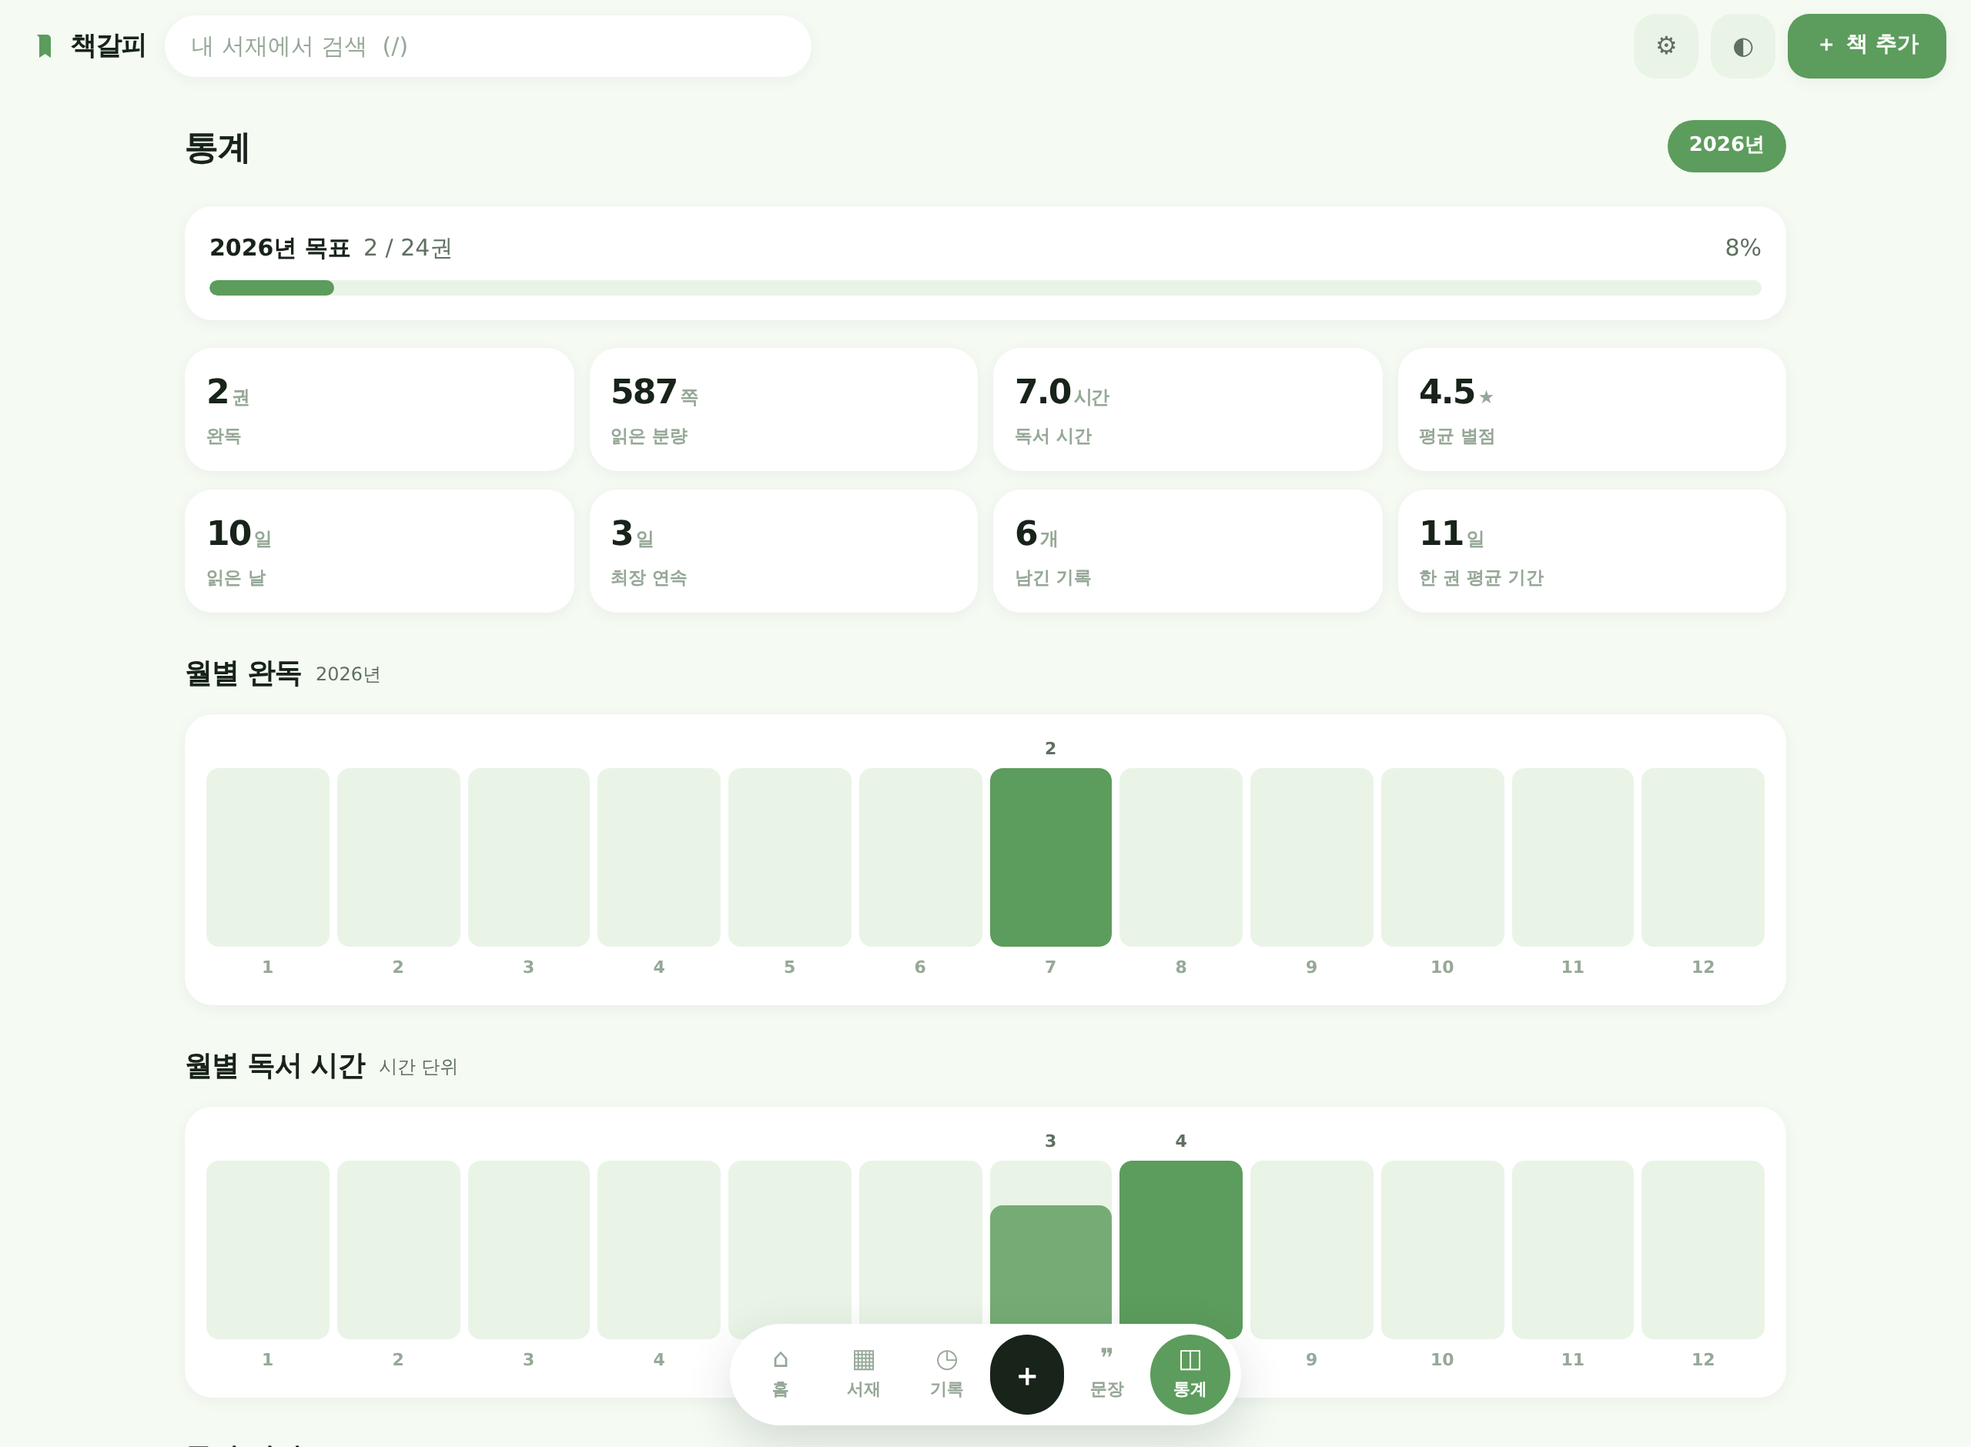
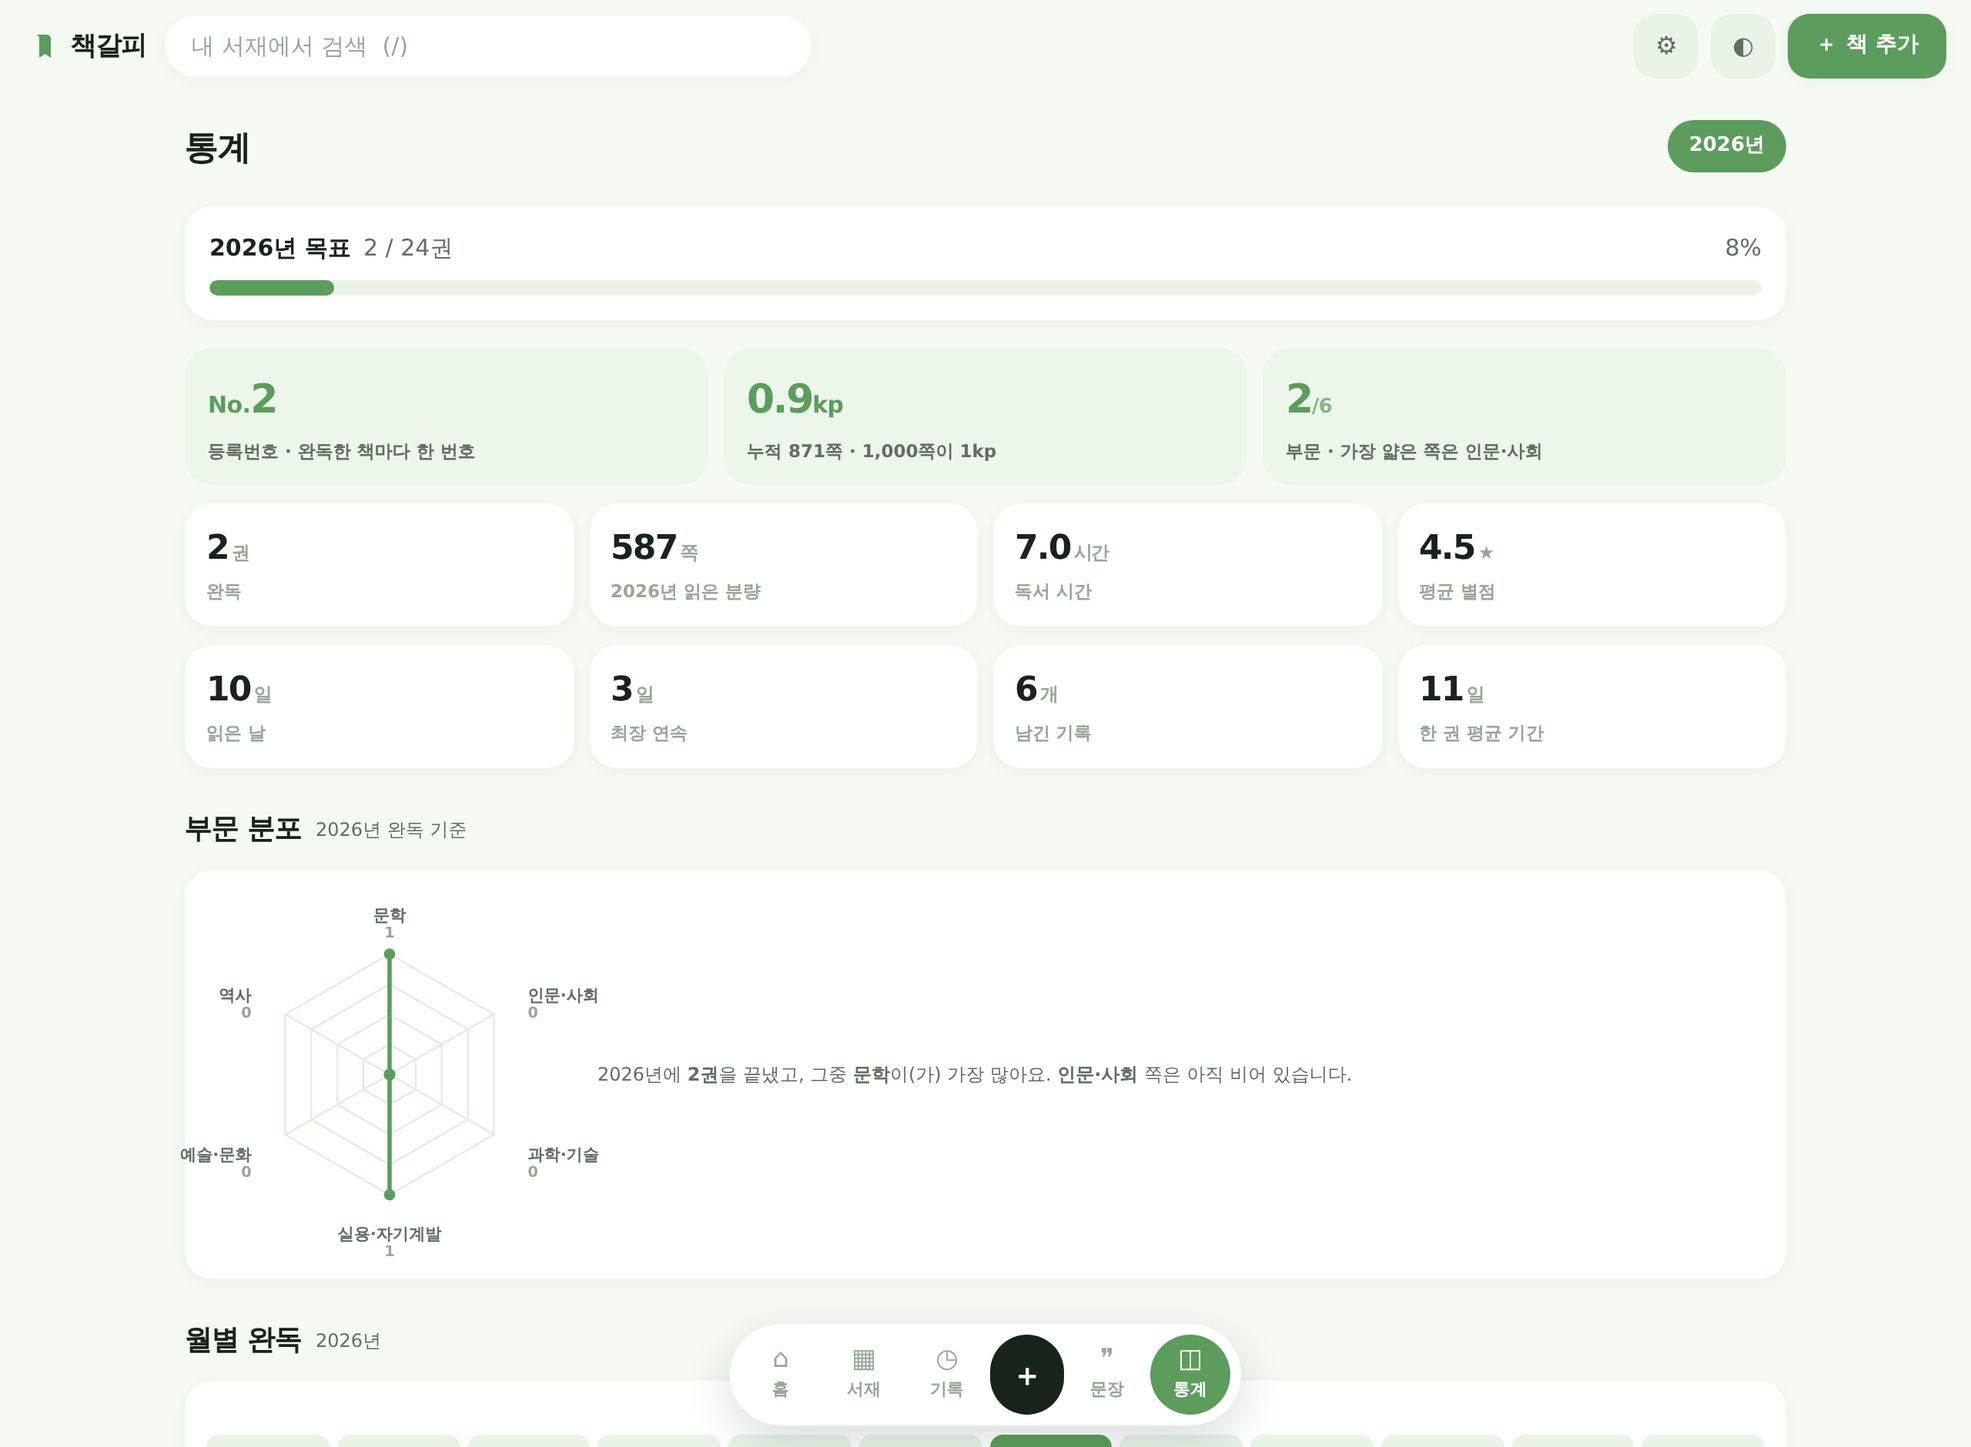
자랑거리가 되는 단위 세 가지 — 등록번호 · kp · 부문 분포
권수는 남과 견주기도, 스스로 뿌듯해하기도 어정쩡한 숫자다.
달리기 앱의 킬로미터처럼, 쌓이는 모양이 보이는 단위를 셋 세웠다.

- 등록번호: 완독한 책마다 순번. 끝내면 "3번째 책을 등록했어요 · No.3" 이 뜨고
  책 상세에 새겨진다. 번호를 저장하지 않고 완독일 순서로 매번 센다 —
  기기 두 대가 같은 번호를 각자 발급하는 일을 막기 위해서다.
  같은 날 두 권을 끝냈으면 서재에 담은 순서로 가른다.
- kp: 누적 1,000쪽을 1kp 로. 완독한 책은 전체 쪽수, 읽는 중인 책은 지금 쪽까지.
  타이머를 쓰지 않아도 쌓이고 해가 바뀌어도 줄지 않는다.
  홈 지표줄의 '읽은 분량'도 kp 로 바꿨다.
- 부문 분포: 자유롭게 적은 분류를 여섯 부문으로 접어 레이더로 그린다.
  축이 고정돼야 모양을 견줄 수 있어 부문을 미리 정해 두었다.
  가장 얇은 쪽을 짚어 준다.

100개 통과 (기존 93 + 단위 7).

Claude-Session: https://claude.ai/code/session_01Cp53XNTgAP4TSJ9zpSBQ1h

diff --git a/js/views/stats.js b/js/views/stats.js
@@ -2,7 +2,7 @@
 
 import { el, esc, on, nfmt, sum, groupBy, daysBetween } from '../util.js';
 import * as store from '../store.js';
-import { barChart, donutChart, rankList, heatmap } from '../charts.js';
+import { barChart, donutChart, rankList, heatmap, radarChart } from '../charts.js';
 import { go } from '../router.js';
 
 const uiState = { year: new Date().getFullYear() };
@@ -71,6 +71,11 @@ export default function statsView() {
     .map((b) => ({ book: b, days: Math.max(1, daysBetween(b.startedAt, b.finishedAt) + 1) }));
   const avgSpan = spans.length ? Math.round(sum(spans, (s) => s.days) / spans.length) : null;
 
+  /* ---- 단위 세 가지 ---- */
+  const kp = store.kilopages();          // 누적 — 해가 바뀌어도 줄지 않는다
+  const bal = store.genreBalance();      // 전체 기간
+  const balY = store.genreBalance({ year: Y });
+
   const acq = store.acquisitionSummary({ year: Y });
   const goal = store.goal(Y);
   const goalPct = goal.books ? Math.min(100, Math.round((doneY.length / goal.books) * 100)) : 0;
@@ -94,9 +99,24 @@ export default function statsView() {
         <div class="progress"><i style="width:${goalPct}%"></i></div>
       </div>` : ''}
 
+      <div class="units">
+        <div class="unit">
+          <div class="unit__v mono">No.<b>${nfmt(store.accessionTotal())}</b></div>
+          <div class="unit__k">등록번호 · 완독한 책마다 한 번호</div>
+        </div>
+        <div class="unit">
+          <div class="unit__v mono"><b>${kp.toFixed(1)}</b>kp</div>
+          <div class="unit__k">누적 ${nfmt(store.totalPages())}쪽 · 1,000쪽이 1kp</div>
+        </div>
+        <div class="unit">
+          <div class="unit__v mono"><b>${bal.rows.filter((r) => r.value).length}</b><small>/6</small></div>
+          <div class="unit__k">부문 · ${bal.total ? `가장 얇은 쪽은 ${esc(bal.thinnest.label)}` : '아직 완독 없음'}</div>
+        </div>
+      </div>
+
       <div class="stat-grid" style="margin-bottom:12px">
         <div class="stat"><div class="stat__v mono">${doneY.length}<small>권</small></div><div class="stat__k">완독</div></div>
-        <div class="stat"><div class="stat__v mono">${nfmt(pagesFromBooks || pagesFromSessions)}<small>쪽</small></div><div class="stat__k">읽은 분량</div></div>
+        <div class="stat"><div class="stat__v mono">${nfmt(pagesFromBooks || pagesFromSessions)}<small>쪽</small></div><div class="stat__k">${Y}년 읽은 분량</div></div>
         <div class="stat"><div class="stat__v mono">${minutesY >= 60 ? (minutesY / 60).toFixed(1) : minutesY}<small>${minutesY >= 60 ? '시간' : '분'}</small></div><div class="stat__k">독서 시간</div></div>
         <div class="stat"><div class="stat__v mono">${avgRating ? avgRating.toFixed(1) : '—'}<small>★</small></div><div class="stat__k">평균 별점</div></div>
       </div>
@@ -106,6 +126,24 @@ export default function statsView() {
         <div class="stat"><div class="stat__v mono">${notesY.length}<small>개</small></div><div class="stat__k">남긴 기록</div></div>
         <div class="stat"><div class="stat__v mono">${avgSpan ?? '—'}<small>일</small></div><div class="stat__k">한 권 평균 기간</div></div>
       </div>
+
+      <section class="section">
+        <div class="section__head"><h2>부문 분포</h2><span class="muted tiny">${Y}년 완독 기준</span></div>
+        <div class="card" style="padding:18px;display:flex;gap:20px;align-items:center;flex-wrap:wrap;justify-content:center">
+          ${balY.total
+            ? `${radarChart(balY.rows)}
+               <div style="flex:1;min-width:180px">
+                 <p class="tiny muted" style="line-height:1.7">
+                   ${Y}년에 <b>${balY.total}권</b>을 끝냈고, 그중
+                   <b>${esc(balY.rows.reduce((a, r) => (r.value > a.value ? r : a), balY.rows[0]).label)}</b>이(가) 가장 많아요.
+                   ${balY.thinnest && !balY.thinnest.value
+                     ? `<b>${esc(balY.thinnest.label)}</b> 쪽은 아직 비어 있습니다.` : ''}
+                 </p>
+                 ${balY.other ? `<p class="tiny faint" style="margin-top:8px">분류가 없어 어느 쪽에도 못 넣은 책 ${balY.other}권</p>` : ''}
+               </div>`
+            : '<p class="empty" style="width:100%">완독한 책이 쌓이면 어느 쪽으로 치우쳐 읽는지 보여드릴게요.</p>'}
+        </div>
+      </section>
 
       <section class="section">
         <div class="section__head"><h2>월별 완독</h2><span class="muted tiny">${Y}년</span></div>

diff --git a/js/store.js b/js/store.js
@@ -473,6 +473,80 @@ export function streak() {
   return { current: cur, best };
 }
 
+/* ---------- 자랑거리가 되는 단위 세 가지 ---------- */
+// 등록번호 · 킬로페이지 · 부문 분포.
+// 권수는 남과 비교하기 어렵지만, 이 셋은 내 서재가 쌓여 가는 모양을 보여 준다.
+
+/** 완독한 순서대로 줄 세운 목록. 번호는 여기서 나온다. */
+function accessionOrder() {
+  return state.books
+    .filter((b) => b.status === 'done' && b.finishedAt)
+    // 같은 날 두 권을 끝냈으면 서재에 담은 순서로 가른다 — 기기가 달라도 같은 답이 나와야 한다
+    .sort((a, b) => (a.finishedAt !== b.finishedAt
+      ? (a.finishedAt < b.finishedAt ? -1 : 1)
+      : String(a.addedAt || a.id) < String(b.addedAt || b.id) ? -1 : 1));
+}
+
+/**
+ * 이 책이 내 서재의 몇 번째 완독인지. 아직 안 끝냈으면 null.
+ * 번호를 따로 저장하지 않고 매번 센다 — 기기 두 대가 같은 번호를 각자 발급하는 일을 막는다.
+ */
+export function accessionNo(book) {
+  if (!book || book.status !== 'done' || !book.finishedAt) return null;
+  const i = accessionOrder().findIndex((b) => b.id === book.id);
+  return i < 0 ? null : i + 1;
+}
+export const accessionTotal = () => accessionOrder().length;
+
+/** 지금까지 읽은 쪽수 — 완독한 책은 전부, 읽는 중인 책은 지금 쪽까지 */
+export function totalPages() {
+  return sum(state.books, (b) => (
+    b.status === 'done' ? (b.pageCount || b.currentPage || 0) : (b.currentPage || 0)
+  ));
+}
+/** 1,000쪽을 1kp 로 센다 */
+export const kilopages = () => totalPages() / 1000;
+
+/** 레이더로 그릴 부문 — 축이 고정돼야 모양을 견줄 수 있다 */
+export const GENRES = [
+  { key: 'lit',  label: '문학',      kw: ['소설', '시', '희곡', '문학', '고전', '판타지', '추리', '스릴러', 'sf', '로맨스'] },
+  { key: 'hum',  label: '인문·사회', kw: ['인문', '철학', '심리', '사회', '정치', '경제', '경영', '교육', '종교'] },
+  { key: 'sci',  label: '과학·기술', kw: ['과학', '수학', '기술', '공학', '컴퓨터', 'it', '의학', '자연'] },
+  { key: 'life', label: '실용·자기계발', kw: ['자기계발', '실용', '건강', '요리', '취미', '여행', '재테크', '투자'] },
+  { key: 'art',  label: '예술·문화', kw: ['예술', '미술', '음악', '사진', '디자인', '건축', '영화', '만화', '문화'] },
+  { key: 'hist', label: '역사',      kw: ['역사', '전기', '평전', '고고'] },
+];
+
+/** 책의 분류 글자를 여섯 부문 중 하나로 접는다. 아무 데도 안 걸리면 null. */
+export function genreOf(book) {
+  const text = [...(book.categories || []), ...(book.tags || [])].join(' ').toLowerCase();
+  if (!text.trim()) return null;
+  for (const g of GENRES) {
+    if (g.kw.some((k) => text.includes(k))) return g.key;
+  }
+  return null;
+}
+
+/**
+ * 부문별 완독 권수. year 를 주면 그 해만.
+ * @returns {{rows: {key,label,value}[], other: number, total: number, thinnest: object|null}}
+ */
+export function genreBalance({ year = null } = {}) {
+  const counts = Object.fromEntries(GENRES.map((g) => [g.key, 0]));
+  let other = 0;
+  for (const b of state.books) {
+    if (b.status !== 'done' || !b.finishedAt) continue;
+    if (year && Number(b.finishedAt.slice(0, 4)) !== Number(year)) continue;
+    const k = genreOf(b);
+    if (k) counts[k] += 1; else other += 1;
+  }
+  const rows = GENRES.map((g) => ({ key: g.key, label: g.label, value: counts[g.key] }));
+  const total = sum(rows, (r) => r.value) + other;
+  // 가장 얇은 쪽을 짚어 주면 다음에 무엇을 집을지 정하기 쉬워진다
+  const thinnest = total ? rows.reduce((a, r) => (r.value < a.value ? r : a), rows[0]) : null;
+  return { rows, other, total, thinnest };
+}
+
 /* ---------- 입수 경로 집계 ---------- */
 
 /** 날짜가 비어 있으면 서재에 담은 날을 대신 쓴다 */

diff --git a/js/charts.js b/js/charts.js
@@ -45,6 +45,58 @@ export function rankList(rows, { valueFmt = (v) => v, max: maxN = 6 } = {}) {
     </div>`).join('');
 }
 
+/**
+ * 부문 분포 레이더 — 어느 쪽으로 치우쳐 읽었는지 모양으로 보여 준다
+ * @param {{label:string, value:number}[]} rows  축은 항상 같은 순서로 들어와야 한다
+ */
+export function radarChart(rows, { size = 230 } = {}) {
+  const n = rows.length;
+  if (n < 3) return '<p class="empty">데이터가 없어요.</p>';
+
+  const max = Math.max(1, ...rows.map((r) => r.value));
+  const cx = 50, cy = 50, R = 34;
+  // 12시 방향에서 시계 방향으로
+  const at = (i, r) => {
+    const a = (Math.PI * 2 * i) / n - Math.PI / 2;
+    return [cx + Math.cos(a) * r, cy + Math.sin(a) * r];
+  };
+  const poly = (r, i2r) => rows
+    .map((_, i) => at(i, i2r ? i2r(i) : r).map((v) => v.toFixed(2)).join(','))
+    .join(' ');
+
+  // 배경 그물 (4겹)
+  const web = [0.25, 0.5, 0.75, 1].map((f) => `
+    <polygon points="${poly(R * f)}" fill="none" stroke="var(--line)" stroke-width="0.5"/>`).join('');
+  const spokes = rows.map((_, i) => {
+    const [x, y] = at(i, R);
+    return `<line x1="${cx}" y1="${cy}" x2="${x.toFixed(2)}" y2="${y.toFixed(2)}"
+      stroke="var(--line)" stroke-width="0.5"/>`;
+  }).join('');
+
+  const shape = poly(0, (i) => (rows[i].value / max) * R);
+  const dots = rows.map((r, i) => {
+    const [x, y] = at(i, (r.value / max) * R);
+    return `<circle cx="${x.toFixed(2)}" cy="${y.toFixed(2)}" r="1.6" fill="var(--accent)"/>`;
+  }).join('');
+
+  const labels = rows.map((r, i) => {
+    const [x, y] = at(i, R + 11);
+    const anchor = Math.abs(x - cx) < 4 ? 'middle' : (x > cx ? 'start' : 'end');
+    return `<text x="${x.toFixed(1)}" y="${(y + 1.6).toFixed(1)}" text-anchor="${anchor}"
+      style="font-size:4.6px;font-weight:700;fill:var(--text-dim)">${esc(r.label)}</text>
+      <text x="${x.toFixed(1)}" y="${(y + 6.4).toFixed(1)}" text-anchor="${anchor}"
+      style="font-size:4.2px;font-weight:800;fill:var(--text-faint)">${r.value}</text>`;
+  }).join('');
+
+  return `
+    <svg viewBox="0 0 100 100" style="width:${size}px;max-width:100%;height:auto;overflow:visible">
+      ${web}${spokes}
+      <polygon points="${shape}" fill="var(--accent)" fill-opacity="0.22"
+        stroke="var(--accent)" stroke-width="1.2" stroke-linejoin="round"/>
+      ${dots}${labels}
+    </svg>`;
+}
+
 const DONUT_COLORS = ['#5c9c5c', '#dfa63c', '#c96f5a', '#5b8fb9', '#3fa3a3', '#9c7fb8', '#8a9a7b', '#d08bb0'];
 
 /** 도넛 차트 + 범례 */

diff --git a/css/styles.css b/css/styles.css
@@ -294,6 +294,21 @@ input[type="search"]::-webkit-search-cancel-button { -webkit-appearance: none; }
 }
 
 /* 통계/책 상세에서 쓰는 요약 타일 — 지표 카드와 같은 생김새 */
+/* 자랑거리가 되는 단위 세 가지 — 권수보다 앞에 세운다 */
+.units { display: grid; grid-template-columns: repeat(3, 1fr); gap: 10px; margin-bottom: 12px; }
+.unit {
+  background: var(--accent-soft); border-radius: var(--radius-sm); padding: 14px 15px;
+}
+.unit__v { font-size: 15px; font-weight: 700; color: var(--accent); letter-spacing: -.02em; }
+.unit__v b { font-size: 26px; font-weight: 800; letter-spacing: -.045em; }
+.unit__v small { font-size: 13px; font-weight: 700; opacity: .7; }
+.unit__k { font-size: 11.5px; color: var(--text-dim); font-weight: 700; margin-top: 4px; line-height: 1.45; }
+@media (max-width: 620px) {
+  .units { grid-template-columns: 1fr; }
+  .unit { padding: 12px 14px; display: flex; align-items: baseline; gap: 10px; }
+  .unit__k { margin-top: 0; }
+}
+
 .stat-grid { display: grid; grid-template-columns: repeat(2, 1fr); gap: 10px; }
 @media (min-width: 560px) { .stat-grid { grid-template-columns: repeat(4, 1fr); } }
 .stat { background: var(--bg-elev); border-radius: var(--radius-sm); padding: 13px 14px; box-shadow: var(--shadow-sm); }
@@ -437,6 +452,12 @@ html[data-theme="dark"] .hero { background: #3f7342; }
 .bookhead .cover { width: 128px; }
 @media (max-width: 480px) { .bookhead .cover { width: 100px; } }
 .bookhead__info { flex: 1 1 260px; min-width: 0; }
+/* 내 서재의 몇 번째 완독인지 */
+.accession {
+  display: inline-block; padding: 2px 10px; border-radius: 999px;
+  background: var(--accent-soft); color: var(--accent);
+  font-size: 11.5px; font-weight: 800; letter-spacing: .02em;
+}
 .bookhead__title { font-size: 22px; line-height: 1.3; margin-bottom: 5px; }
 .bookhead__authors { color: var(--text-dim); font-size: 14px; margin-bottom: 10px; }
 .bookhead__actions { display: flex; gap: 8px; flex-wrap: wrap; margin-top: 16px; }

diff --git a/js/views/book.js b/js/views/book.js
@@ -25,6 +25,7 @@ export default function bookView({ id }) {
     || String(a.createdAt).localeCompare(String(b2.createdAt)));
   const sessions = store.sessionsOf(id).sort((a, b2) => String(b2.startedAt).localeCompare(String(a.startedAt)));
   const pct = store.progressOf(b);
+  const accNo = store.accessionNo(b);   // 완독한 책만 번호를 받는다
   const f = store.forecast(b);
   const totalMin = sum(sessions, (s) => s.minutes);
   const running = timer.isRunning(id);
@@ -53,6 +54,7 @@ export default function bookView({ id }) {
         <div class="bookhead__info">
           <span class="badge badge--${esc(b.status)}">${esc(store.STATUS[b.status])}</span>
           ${b.readCount > 1 ? `<span class="badge badge--want">${b.readCount}회독</span>` : ''}
+          ${accNo ? `<div class="accession mono">No. ${accNo}</div>` : ''}
           <h1 class="bookhead__title" style="margin-top:8px">${esc(b.title)}</h1>
           <p class="bookhead__authors">${esc((b.authors || []).join(', '))}${b.publisher ? ` · ${esc(b.publisher)}` : ''}</p>
 

diff --git a/js/views/home.js b/js/views/home.js
@@ -143,8 +143,8 @@ export default function homeView() {
       spark: '',
     }),
     kpiHTML({
-      k: '읽은 분량', v: nfmt(totalPages), unit: '쪽',
-      delta: '기록된 전체',
+      k: '읽은 분량', v: store.kilopages().toFixed(1), unit: 'kp',
+      delta: `누적 ${nfmt(store.totalPages())}쪽`,
       spark: sparkHTML(weeklyTrend((from, to) => sum(
         sessions.filter((s) => { const d = new Date(s.date); return d >= from && d < to; }),
         (s) => (s.startPage != null && s.endPage != null && s.endPage > s.startPage) ? s.endPage - s.startPage : 0,

diff --git a/js/dialogs.js b/js/dialogs.js
@@ -464,7 +464,11 @@ export function openFinishDialog(book) {
         }
 
         close();
-        toast(actions.length ? `완독! 실천 ${actions.length}개를 등록했어요 🎉` : '완독을 축하해요 🎉');
+        // 권수보다 '몇 번째'가 남는다
+        const no = store.accessionNo(store.getBook(book.id));
+        toast(no
+          ? `${no}번째 책을 등록했어요 · No.${no} 🎉`
+          : (actions.length ? `완독! 실천 ${actions.length}개를 등록했어요 🎉` : '완독을 축하해요 🎉'));
       };
     },
   });
